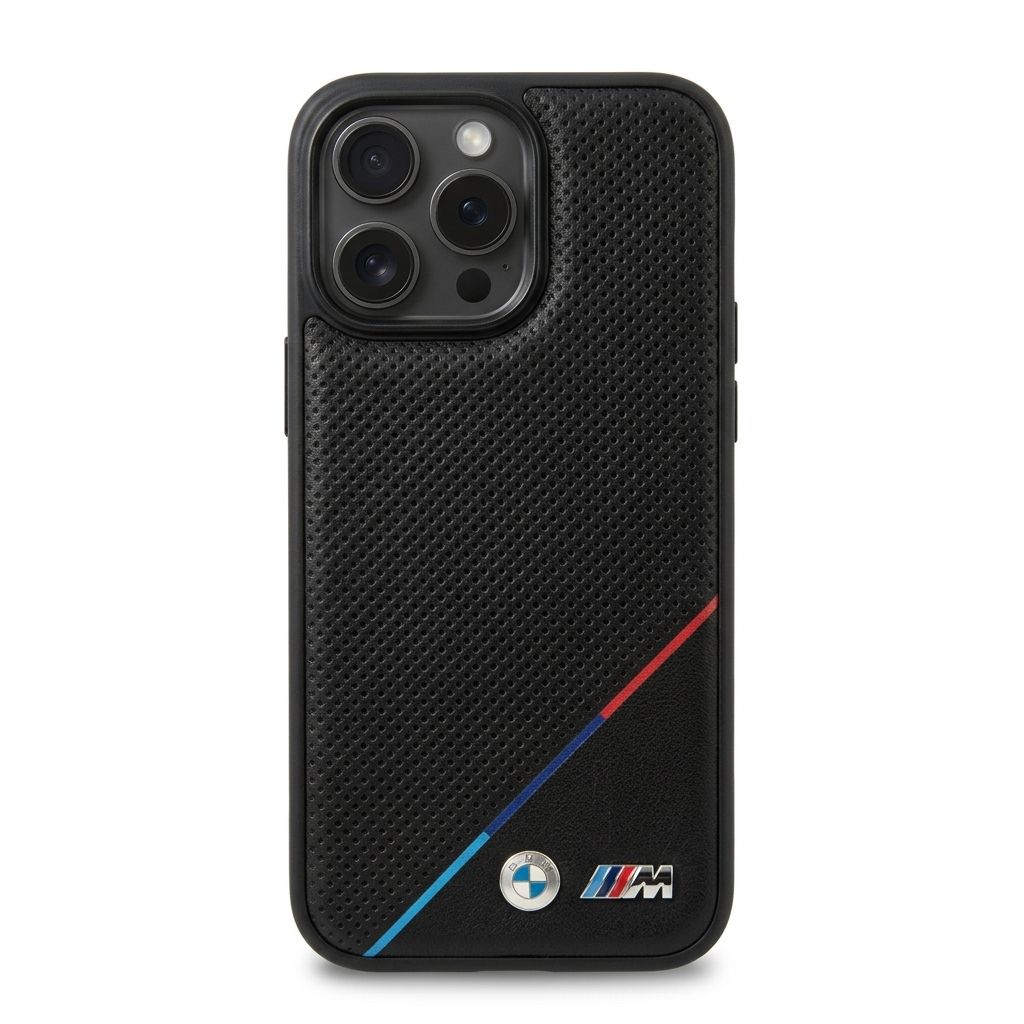
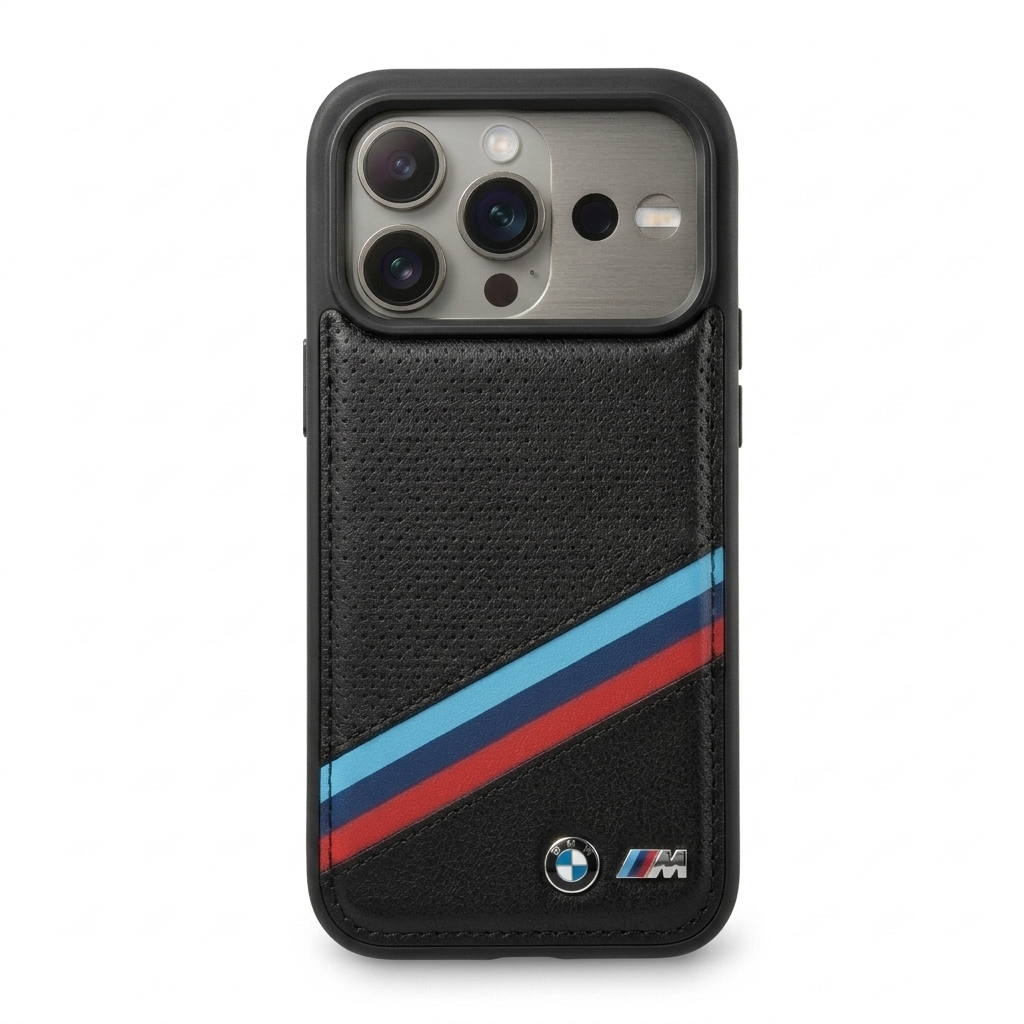
feat(catalog): update BMW M case to authentic iPhone 17 Pro Max Camera Plateau design

Changed region(s): [[0.25, 0.0625, 0.75, 0.9688]]

diff --git a/src/data/seedProducts.ts b/src/data/seedProducts.ts
@@ -816,21 +816,22 @@ export const initialProducts: Product[] = [
       '/product-images/case-bmw-m-ip17promax-front.jpg',
       '/product-images/case-bmw-m-ip17promax-original.jpg'
     ],
-    description_ar: 'جراب حماية فاخر مرخص رسمياً من BMW M Power مصمم خصيصاً لهاتف آيفون 17 برو ماكس (iPhone 17 Pro Max). مصنع من جلد طبيعي مثقب (Perforated Real Leather) عالي الجودة مع شريط سباقات M الأيقوني الثلاثي الألوان وشعار BMW المعدني البارز. يوفر حماية فائقة ضد الصدمات مع إطار مرن ممتص للصدمات وحافة مرتفعة لحماية عدسات الكاميرا والشاشة.',
-    description_en: 'Official BMW M Power luxury genuine leather case designed specifically for iPhone 17 Pro Max. Crafted from premium perforated genuine leather featuring the iconic BMW M tri-color racing stripe and raised metal emblems. Offers military-grade drop protection with raised camera bezels and tactile button coverage.',
+    description_ar: 'جراب حماية فاخر مرخص رسمياً من BMW M Power مصمم خصيصاً لهاتف آيفون 17 برو ماكس (iPhone 17 Pro Max) بالتصميم الجديد لمنصة الكاميرات العريضة (Camera Plateau). مصنع من جلد طبيعي مثقب (Perforated Real Leather) عالي الجودة مع شريط سباقات M الأيقوني الثلاثي الألوان وشعار BMW المعدني البارز. يوفر حماية فائقة لمنصة الكاميرات الأفقية وإطار مرن ممتص للصدمات وحافة مرتفعة لحماية العدسات والشاشة.',
+    description_en: 'Official BMW M Power luxury genuine leather case designed specifically for iPhone 17 Pro Max featuring the new Camera Plateau horizontal visor platform. Crafted from premium perforated genuine leather with the iconic BMW M tri-color racing stripe and raised metal emblems.',
     specs: {
       'الماركة (Brand)': 'BMW Motorsport',
-      'الموديل المتوافق': 'Apple iPhone 17 Pro Max / 16 Pro Max',
+      'الموديل المتوافق': 'Apple iPhone 17 Pro Max (Camera Plateau Edition)',
       'الخامة': 'جلد طبيعي فاخر مثقب (Cuir Véritable) + إطار TPU مرن ممتص للصدمات',
       'الشحن اللاسلكي': 'متوافق مع الشحن اللاسلكي السريع وMagSafe',
-      'حماية الكاميرا': 'إطار مدمج مرتفع لحماية العدسات من الخدوش',
+      'حماية الكاميرا': 'إطار مدمج مرتفع مصمم خصيصاً لحماية شريط الكاميرا العريض Camera Plateau الجديد',
       'مقاومة الصدمات': 'حماية معتمدة ضد السقوط والصدمات مع زوايا مدعمة',
       'الأزرار والمنافذ': 'قصات ليزر دقيقة للأزرار ومنفذ Type-C وزر الـ Camera Control'
     },
     about_item: [
+      '[تصميم متوافق مع Camera Plateau]: مصمم هندسياً بفتحة أفقية عريضة مع إطار بارز مخصص لحماية شريط الكاميرات العريض الجديد كلياً في هاتف iPhone 17 Pro Max.',
       '[جلد طبيعي فاخر مثقب]: مصنع من جلد طبيعي عالي الجودة بملمس مثقب ناعم يوفر قبضة مريحة وثابتة في اليد مع مقاومة للتعرق وبصمات الأصابع.',
       '[تصميم رياضي أيقوني BMW M]: مزين بخطوط سباقات BMW M Power الثلاثية الألوان (أزرق سماوي، كحلي، أحمر) وشعار BMW المعدني البارز لإطلالة أنيقة وفاخرة.',
-      '[حماية متكاملة للكاميرا والشاشة]: حواف مرتفعة حول فتحة الكاميرات الخلفية وشاشة الموبايل لمنع الاحتكاك والخدوش عند وضعه على الأسطح المستوية.',
+      '[حماية متكاملة للكاميرا والشاشة]: حواف مرتفعة حول منصة الكاميرات وشاشة الموبايل لمنع الاحتكاك والخدوش عند وضعه على الأسطح المستوية.',
       '[توافق كامل مع iPhone 17 Pro Max]: أبعاد دقيقة بنسبة 100% مع فتحات متقنة لزر الـ Camera Control ومنفذ الشحن السريع Type-C والسماعات.',
       '[دعم الشحن اللاسلكي]: خفيف الوزن ونحيف ليسمح بالشحن اللاسلكي السريع دون الحاجة لنزع الجراب.'
     ],
